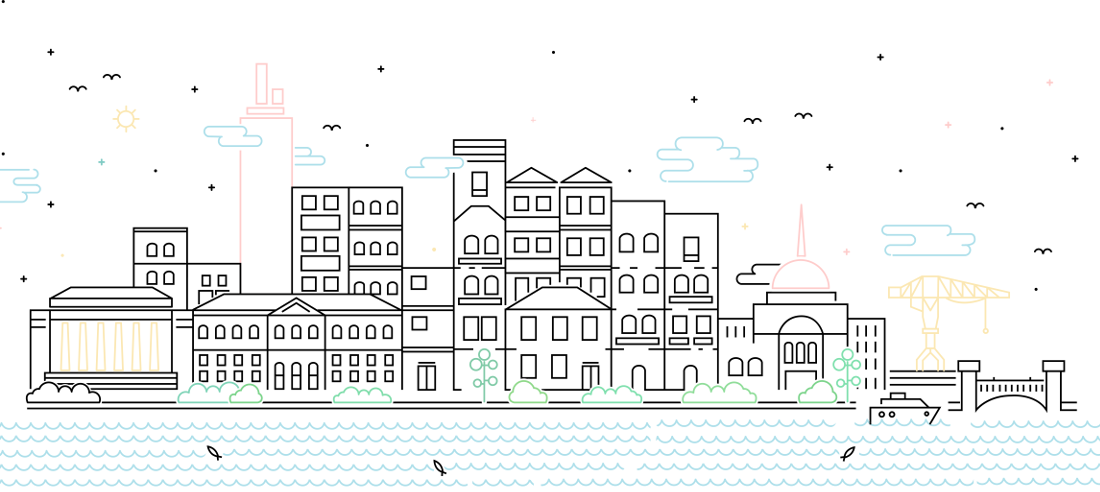
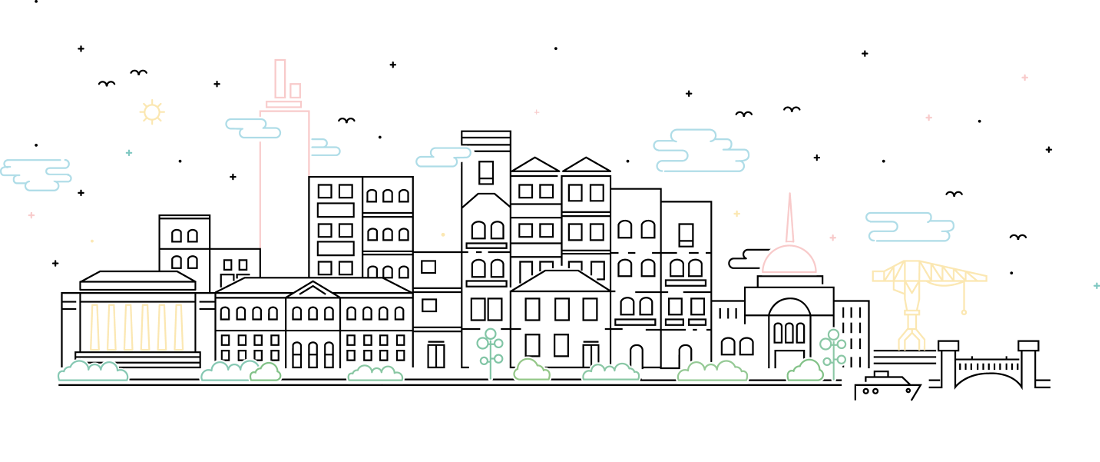
changements slide1

diff --git a/map_et_dipp/html/simple.css b/map_et_dipp/html/simple.css
@@ -66,7 +66,7 @@ nav .boutonMenu
 
 #slide1
 {
-	background: url("./img/villeSlide1.png") no-repeat bottom center;
+	background: url("./img/villeSlide1.png") no-repeat bottom center, url("./img/vaguesSlide1.png") repeat-x bottom center;
 }
 
 #slide1 h1
@@ -386,4 +386,5 @@ nav .boutonMenu
 	width: 350px;
 	border-radius: 10px;
 	border: 1px solid #fdbe63;
+	margin-top: 1%;
 }
